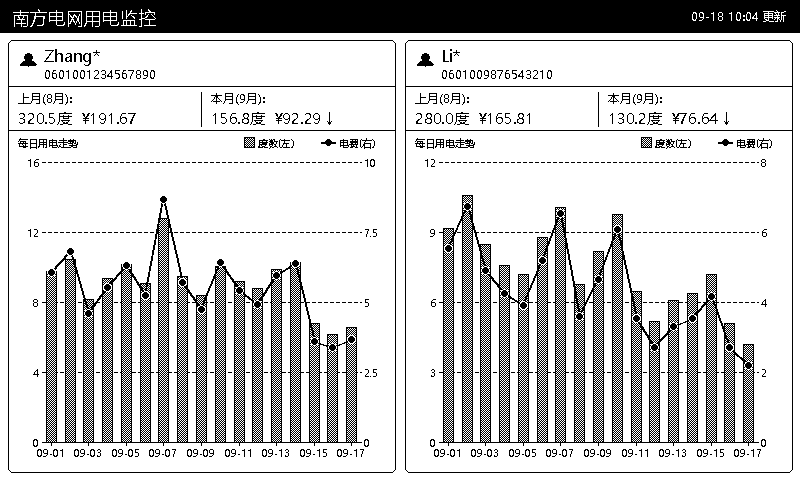
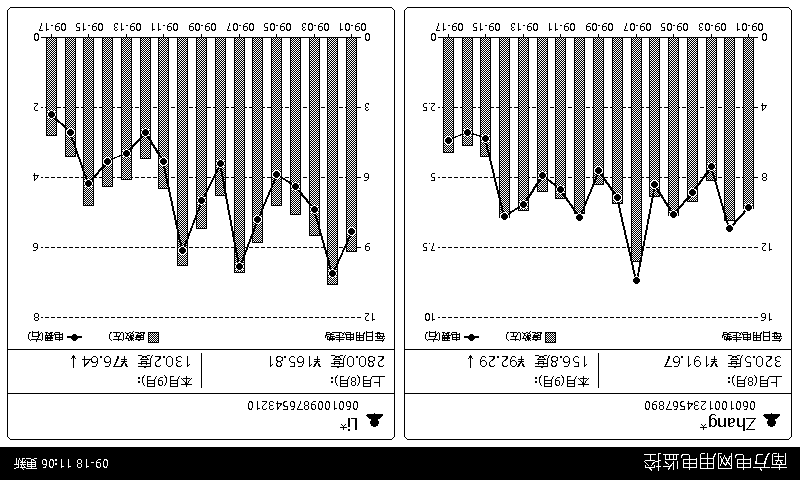
feat: add einik module with csg service, configuration, pricing, and tests

diff --git a/einik/csg_service.py b/einik/csg_service.py
@@ -30,6 +30,7 @@ from einik.config import (
     QR_POLL_TIMEOUT,
     load_config,
     save_config,
+    get_candidate_accounts,
 )
 from einik.pricing import calculate_monthly_cost, calculate_daily_costs
 
@@ -122,12 +123,9 @@ class CSGService:
         # 保存到配置
         config = load_config()
         config["all_accounts"] = accounts
-        # 如果还没有指定监控户号，默认取前两个
-        if "account_numbers" not in config or not config["account_numbers"]:
-            config["account_numbers"] = [
-                acc["account_number"] for acc in accounts[:2]
-            ]
-            log.info("已自动选择前 %d 个户号进行监控", len(config["account_numbers"]))
+        # 保存所有绑定户号为候选列表
+        config["account_numbers"] = [acc["account_number"] for acc in accounts]
+        log.info("已将全部 %d 个绑定户号加入候选监控列表", len(config["account_numbers"]))
         save_config(config)
         return accounts
 
@@ -184,30 +182,35 @@ class CSGService:
 
     def fetch_all_accounts_data(self) -> List[Dict[str, Any]]:
         """
-        获取配置中所有户号的当月和上月用电数据。
+        获取户号的当月和上月用电数据。
+        当绑定户号多于 2 个时，自动筛选上月有数据（用电量 > 0）的 2 个户号进行展示。
 
         Returns:
-            [
-                {
-                    "account_number": str,
-                    "user_name": str,
-                    "current_month": {...},  # 当月数据
-                    "last_month": {...},     # 上月数据
-                },
-                ...
-            ]
+            展示户号数据列表 (最多 2 个)
         """
-        from einik.config import get_account_numbers
-        account_numbers = get_account_numbers()
+        # 尝试从 API 同步刷新所有绑定的户号
+        try:
+            api_accounts = self.client.get_accounts()
+            if api_accounts:
+                cfg = load_config()
+                cfg["all_accounts"] = api_accounts
+                cfg["account_numbers"] = [acc["account_number"] for acc in api_accounts]
+                save_config(cfg)
+        except Exception as e:
+            log.debug("尝试获取最新户号列表失败，使用本地配置: %s", e)
 
-        if not account_numbers:
+        candidates = get_candidate_accounts()
+
+        if not candidates:
             log.warning("配置中无户号，尝试从 API 获取...")
             self.fetch_and_save_accounts()
-            account_numbers = get_account_numbers()
+            candidates = get_candidate_accounts()
 
-        if not account_numbers:
+        if not candidates:
             log.error("无法获取户号列表")
             return []
+
+        log.info("待检查候选户号 (%d 个): %s", len(candidates), candidates)
 
         now = datetime.now()
         cur_year, cur_month = now.year, now.month
@@ -218,17 +221,29 @@ class CSGService:
         else:
             last_year, last_month = cur_year, cur_month - 1
 
-        all_data = []
-        for acc_num in account_numbers[:2]:  # 最多两个户号
-            log.info("获取户号 %s 的用电数据...", acc_num)
+        all_candidates_data = []
+        for acc_num in candidates:
+            log.info("获取户号 %s 的用电数据 (上月 %d-%02d / 当月 %d-%02d)...",
+                     acc_num, last_year, last_month, cur_year, cur_month)
             try:
-                current = self.fetch_usage_data(acc_num, cur_year, cur_month)
                 last = self.fetch_usage_data(acc_num, last_year, last_month)
-                all_data.append({
+                current = self.fetch_usage_data(acc_num, cur_year, cur_month)
+
+                user_name = current.get("user_name") or last.get("user_name") or ""
+                address = current.get("address") or last.get("address") or ""
+                balance = current.get("balance", 0.0)
+
+                last_kwh = last.get("total_kwh", 0.0)
+                # 判定上月是否有数据：用电度数 > 0 或日用电明细有度数 > 0
+                has_last_month_data = (last_kwh > 0) or any(
+                    d.get("kwh", 0) > 0 for d in last.get("daily_usage", [])
+                )
+
+                acc_data = {
                     "account_number": acc_num,
-                    "user_name": current.get("user_name", ""),
-                    "address": current.get("address", ""),
-                    "balance": current.get("balance", 0.0),
+                    "user_name": user_name,
+                    "address": address,
+                    "balance": balance,
                     "current_month": {
                         "year": cur_year,
                         "month": cur_month,
@@ -241,14 +256,19 @@ class CSGService:
                         "month": last_month,
                         "total_kwh": last["total_kwh"],
                         "total_cost": last["total_cost"],
+                        "daily_usage": last.get("daily_usage", []),
                     },
-                })
-                log.info("  当月: %.1f度 ¥%.2f | 上月: %.1f度 ¥%.2f",
-                         current["total_kwh"], current["total_cost"],
-                         last["total_kwh"], last["total_cost"])
+                    "has_last_month_data": has_last_month_data,
+                }
+                all_candidates_data.append(acc_data)
+                log.info("  户号 %s (%s): 上月=%.1f度(¥%.2f, %s) | 当月=%.1f度(¥%.2f)",
+                         acc_num, user_name,
+                         last["total_kwh"], last["total_cost"],
+                         "上月有数据" if has_last_month_data else "上月无数据",
+                         current["total_kwh"], current["total_cost"])
             except Exception as e:
                 log.error("获取户号 %s 数据失败: %s", acc_num, e)
-                all_data.append({
+                all_candidates_data.append({
                     "account_number": acc_num,
                     "user_name": "获取失败",
                     "address": "",
@@ -261,9 +281,42 @@ class CSGService:
                         "year": last_year, "month": last_month,
                         "total_kwh": 0, "total_cost": 0,
                     },
+                    "has_last_month_data": False,
                 })
 
-        return all_data
+        # ── 智能筛选：优先选择上月有数据（用电量 > 0）的户号 ──
+        with_data = [acc for acc in all_candidates_data if acc.get("has_last_month_data")]
+        without_data = [acc for acc in all_candidates_data if not acc.get("has_last_month_data")]
+
+        if len(with_data) >= 2:
+            # 找到 2 个或以上上月有数据的户号，取前 2 个展示
+            selected = with_data[:2]
+            log.info("已选出上月有数据的 2 个户号进行展示: %s",
+                     [a["account_number"] for a in selected])
+        elif len(with_data) == 1:
+            # 仅 1 个户号上月有数据，如果有其他候选户号则补选 1 个凑成双户号，否则单户展示
+            if without_data:
+                selected = with_data + without_data[:1]
+                log.info("仅 1 个户号上月有数据，补选 1 个户号展示: %s",
+                         [a["account_number"] for a in selected])
+            else:
+                selected = with_data
+                log.info("仅 1 个户号有数据，采用单户号全屏展示: %s",
+                         selected[0]["account_number"])
+        else:
+            # 全部无上月数据，默认展示前两个
+            selected = all_candidates_data[:2]
+            log.warning("候选户号上月均无数据，默认展示前 %d 个户号", len(selected))
+
+        # 记录实际展示户号到配置供参考
+        try:
+            cfg = load_config()
+            cfg["display_accounts"] = [a["account_number"] for a in selected]
+            save_config(cfg)
+        except Exception:
+            pass
+
+        return selected
 
 
 # 单例

diff --git a/einik/test_einik.py b/einik/test_einik.py
@@ -112,3 +112,69 @@ except Exception as e:
     print(f"Renderer test failed: {e}")
     import traceback
     traceback.print_exc()
+
+# Test 3: Account filtering logic (3 accounts -> 2 accounts with last month data)
+print("\n=== Account Selection Test ===")
+from unittest.mock import MagicMock
+from einik.csg_service import CSGService
+
+test_service = CSGService()
+test_service.client = MagicMock()
+# 模拟绑定了 3 个户号
+test_service.client.get_accounts.return_value = [
+    {"account_number": "0601000000000001", "user_name": "张三", "address": "广州天河"},
+    {"account_number": "0601000000000002", "user_name": "李四 (空置户)", "address": "广州越秀"},
+    {"account_number": "0601000000000003", "user_name": "王五", "address": "广州番禺"},
+]
+
+def mock_fetch_usage(acc_num, year, month):
+    # 模拟户号2上个月无数据(total_kwh=0)，户号1和户号3上个月有数据
+    if acc_num == "0601000000000002":
+        return {
+            "account_number": acc_num,
+            "user_name": "李四 (空置户)",
+            "address": "广州越秀",
+            "total_kwh": 0.0,
+            "total_cost": 0.0,
+            "balance": 50.0,
+            "daily_usage": [],
+        }
+    elif acc_num == "0601000000000001":
+        return {
+            "account_number": acc_num,
+            "user_name": "张三",
+            "address": "广州天河",
+            "total_kwh": 185.0 if month == 8 else 92.0,
+            "total_cost": 108.89 if month == 8 else 54.15,
+            "balance": 200.0,
+            "daily_usage": [{"date": f"2026-{month:02d}-01", "kwh": 10.0, "cost": 5.88}],
+        }
+    else:
+        return {
+            "account_number": acc_num,
+            "user_name": "王五",
+            "address": "广州番禺",
+            "total_kwh": 260.5 if month == 8 else 130.0,
+            "total_cost": 153.33 if month == 8 else 76.51,
+            "balance": 120.0,
+            "daily_usage": [{"date": f"2026-{month:02d}-01", "kwh": 12.0, "cost": 7.06}],
+        }
+
+test_service.fetch_usage_data = MagicMock(side_effect=mock_fetch_usage)
+
+selected_accounts = test_service.fetch_all_accounts_data()
+print("选中的展示户号列表:")
+for acc in selected_accounts:
+    print(f"  - 户号: {acc['account_number']}, 用户: {acc['user_name']}, 上月用电: {acc['last_month']['total_kwh']}度")
+
+selected_numbers = [a["account_number"] for a in selected_accounts]
+assert len(selected_accounts) == 2, f"Expected 2 accounts, got {len(selected_accounts)}"
+assert "0601000000000001" in selected_numbers, "Account 1 should be selected"
+assert "0601000000000003" in selected_numbers, "Account 3 should be selected"
+assert "0601000000000002" not in selected_numbers, "Account 2 (no data) should NOT be selected"
+
+from einik.config import CONFIG_FILE
+if CONFIG_FILE.exists():
+    CONFIG_FILE.unlink()
+
+print("\nAll account selection tests PASSED!")

diff --git a/einik/config.py b/einik/config.py
@@ -84,3 +84,21 @@ def get_account_numbers() -> list[str]:
     """从配置中获取要监控的户号列表。"""
     config = load_config()
     return config.get("account_numbers", [])
+
+
+def get_candidate_accounts() -> list[str]:
+    """从配置中获取所有候选户号列表（合并 account_numbers 和 all_accounts）。"""
+    config = load_config()
+    candidates = []
+    # 显式指定的 account_numbers
+    for acc in config.get("account_numbers", []):
+        acc_str = str(acc).strip()
+        if acc_str and acc_str not in candidates:
+            candidates.append(acc_str)
+    # 补充 all_accounts 中的户号
+    for item in config.get("all_accounts", []):
+        acc = item.get("account_number") if isinstance(item, dict) else str(item)
+        acc_str = str(acc).strip() if acc else ""
+        if acc_str and acc_str not in candidates:
+            candidates.append(acc_str)
+    return candidates
